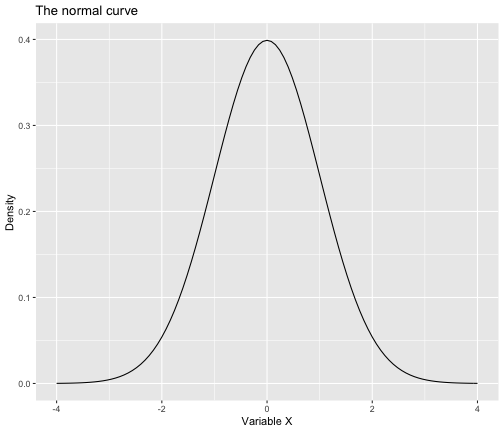
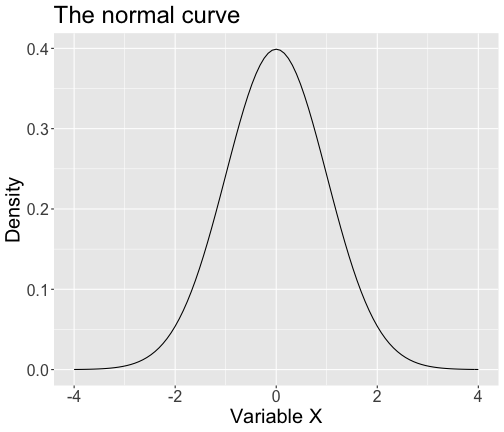
link lecture 8

Changed region(s): [[0.0, 0.0, 1.0, 0.9931], [0.2976, 0.7824, 0.3274, 0.8125], [0.2679, 0.8125, 0.2976, 0.8426]]

diff --git a/lectures/8-normal.html b/lectures/8-normal.html
@@ -19,6 +19,19 @@ class: center, middle, inverse, title-slide
 
 
 
+![](images/twitter1.png)
+
+---
+
+![](images/twitter2.png)
+
+---
+
+![](images/twitter3.png)
+
+---
+
+
 ## Today...
 * The normal distribution
 * Why the normal is so important
@@ -33,6 +46,13 @@ The **normal distribution** ("bell curve" or "Gaussian distribution") is a two-p
 
 `$$p(X|\mu, \sigma) = \frac{1}{\sqrt{2\pi\sigma}}exp[-\frac{(X-\mu)^2}{2\sigma^2}]$$`
 `$$X\sim N(\mu,\sigma)$$`
+???
+
+Note p not P
+
+### Also note function of Z-scores
+pull out 2, pull out 1/2
+
 ---
 
 ### Expected value
@@ -63,7 +83,8 @@ ggplot(data.frame(x = seq(-4, 4)), aes(x)) +
   stat_function(fun = function(x) dnorm(x)) +
   scale_x_continuous("Variable X") +
   scale_y_continuous("Density")+
-  ggtitle("The normal curve")
+  ggtitle("The normal curve") +
+  theme(text = element_text(size = 20))
 ```
 ---
 
@@ -112,13 +133,13 @@ As we shrink that area by moving X closer to the mean, that probability interpre
 ---
 
 .left-column[
-.small[
+
 As our interval shrinks closer and closer to 0, our area (probability) shrinks as well.
 
 It can get vanishingly close to 0—essentially a point rather than an area.
 
 The probability of that "point" is 0.
-]
+
 ]
 
 ![](8-normal_files/figure-html/unnamed-chunk-6-1.png)&lt;!-- --&gt;
@@ -126,12 +147,12 @@ The probability of that "point" is 0.
 ---
 
 .left-column[
-.small[
+
 We can keep shrinking the distance between Z and 0, never reaching 0, and still calculate an area.
 
 It will be very, very small. 
 
-]
+
 ]
 
 ![](8-normal_files/figure-html/unnamed-chunk-7-1.png)&lt;!-- --&gt;
@@ -181,6 +202,7 @@ Variables with quite different means and standard deviations can be standardized
 I could not say, however, that I am twice as conscientious as I am extraverted.
 
 --
+
 All continuous distributions can be standardized, but if they are not normal to begin with, standardization will not make them so.  *Standardization does not alter distribution shape.*
 
 
@@ -199,7 +221,7 @@ Why?
 There is only one (1) standard normal distribution. 
   
 **How is this useful?**
-  - Given any s-score, we can calculate the probaiblity of getting a value greater than that z-score. *(Or less than that z-score.)*
+  - Given any score, we can calculate the probability of getting a value greater than that z-score. *(Or less than that z-score.)*
   
   - Given any two z-scores, we can calculate the probability of getting a value between these scores. *(Or outside those z-scores)*
   
@@ -249,6 +271,7 @@ Here is the sample standard deviation from a normal distribution with `\(\sigma 
 ![](8-normal_files/figure-html/unnamed-chunk-10-1.png)&lt;!-- --&gt;
 
 ---
+
 .left-column[And the range.]
 
 ![](8-normal_files/figure-html/unnamed-chunk-11-1.png)&lt;!-- --&gt;
@@ -289,9 +312,10 @@ This must be estimated from the sample and the added uncertainty produces a dist
 
 ![](8-normal_files/figure-html/unnamed-chunk-12-1.png)&lt;!-- --&gt;
 
-??? 
 
-Just like with the standard normal (Z) distribution, there are 1-1 relationships between probablility and "$t$-scores".
+???
+
+Just like with the standard normal (Z) distribution, there are 1-1 relationships between probability and "$t$-scores".
 
 ---
 
@@ -327,6 +351,10 @@ We have X's but if we can turn these into Z's, we might be able to simply with a
 `$$s^2 = \frac{\sum_{i = 1}^{N}(X_i-\bar{X})^2}{N-1}$$`
 
 divide by `\(\sigma^2\)` and multiple by (N-1) and you'll get Z's!
+
+Also point out, if sample comes from the same population, what does the equation simplify to? 1
+
+If from different populations -- not 1!
 
 
 ---
@@ -390,7 +418,16 @@ As sample size increases, `\(t\)` and `\(\chi^2\)` converge on the normal. `\(F\
 `$$\frac{\chi^2_{\nu_1}}{\nu_1}$$`
 with the numerator depending on the normal.
 
-We assume the sample is a random selection from the population.
+---
+
+### But keep in mind
+
+These probability distributions have a key assumption:
+
+  - the sample is a random selection from the population
+    
+
+If the sample is not a random selection, the rules of probability don't apply.
 
 
 

diff --git a/README.html b/README.html
@@ -314,6 +314,9 @@ $(document).ready(function () {
     <li>
       <a href="lectures/7-binomial.html">7-Binomial</a>
     </li>
+    <li>
+      <a href="lectures/8-normal.html">8-Normal</a>
+    </li>
   </ul>
 </li>
 <li class="dropdown">

diff --git a/bonus.html b/bonus.html
@@ -413,6 +413,9 @@ div.tocify {
     <li>
       <a href="lectures/7-binomial.html">7-Binomial</a>
     </li>
+    <li>
+      <a href="lectures/8-normal.html">8-Normal</a>
+    </li>
   </ul>
 </li>
 <li class="dropdown">

diff --git a/homework.html b/homework.html
@@ -413,6 +413,9 @@ div.tocify {
     <li>
       <a href="lectures/7-binomial.html">7-Binomial</a>
     </li>
+    <li>
+      <a href="lectures/8-normal.html">8-Normal</a>
+    </li>
   </ul>
 </li>
 <li class="dropdown">

diff --git a/index.html b/index.html
@@ -414,6 +414,9 @@ div.tocify {
     <li>
       <a href="lectures/7-binomial.html">7-Binomial</a>
     </li>
+    <li>
+      <a href="lectures/8-normal.html">8-Normal</a>
+    </li>
   </ul>
 </li>
 <li class="dropdown">

diff --git a/schedule.html b/schedule.html
@@ -413,6 +413,9 @@ div.tocify {
     <li>
       <a href="lectures/7-binomial.html">7-Binomial</a>
     </li>
+    <li>
+      <a href="lectures/8-normal.html">8-Normal</a>
+    </li>
   </ul>
 </li>
 <li class="dropdown">
